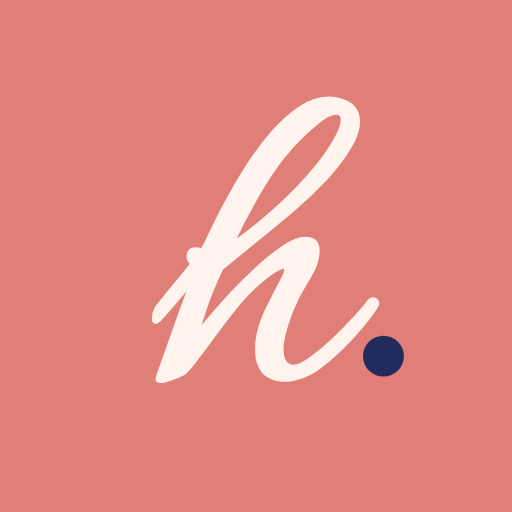
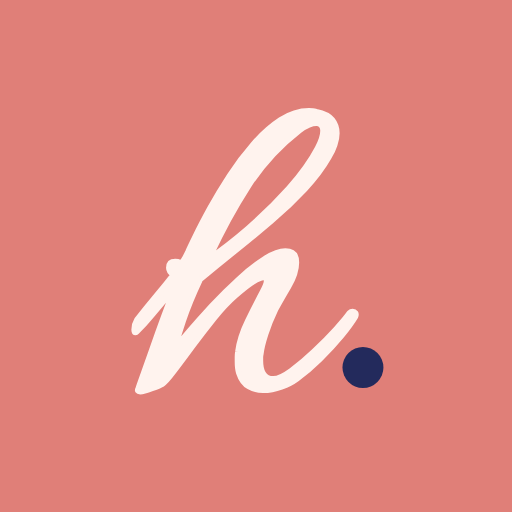
アイコンの h を中央に寄せる
文字と点を合わせた見た目の中心がアイコンの中央に来るよう左へ移動

Claude-Session: https://claude.ai/code/session_01CZFbSqEvVoRUXi1VwqddPJ

Changed region(s): [[0.25, 0.1875, 0.8125, 0.7812], [0.5312, 0.2188, 0.5625, 0.25], [0.5, 0.25, 0.5312, 0.2812]]

diff --git a/sw.js b/sw.js
@@ -1,6 +1,6 @@
 // Offline support. Pages and scripts are network-first, so a new version shows up on the next open;
 // the cached copy is used only when offline. Icons and Google Fonts are cache-first.
-const CACHE = 'hibi-v34';
+const CACHE = 'hibi-v35';
 const SHELL = ['./', './index.html', './manifest.webmanifest', './icons/icon-180.png', './icons/icon-192.png', './icons/icon-512.png', './icons/icon-maskable-512.png'];
 self.addEventListener('install', e => { e.waitUntil(caches.open(CACHE).then(c => c.addAll(SHELL)).then(() => self.skipWaiting())); });
 self.addEventListener('activate', e => {

diff --git a/index.html b/index.html
@@ -10,7 +10,7 @@
 <meta name="apple-mobile-web-app-title" content="ひび">
 <meta name="theme-color" content="#F4EEEA">
 <link rel="manifest" href="manifest.webmanifest">
-<link rel="apple-touch-icon" href="icons/icon-180.png?v=2">
+<link rel="apple-touch-icon" href="icons/icon-180.png?v=3">
 <!--/pwa-->
 <title>ひび手帳</title>
 <link rel="preconnect" href="https://fonts.googleapis.com">
